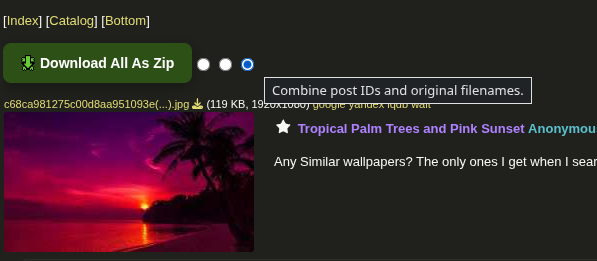
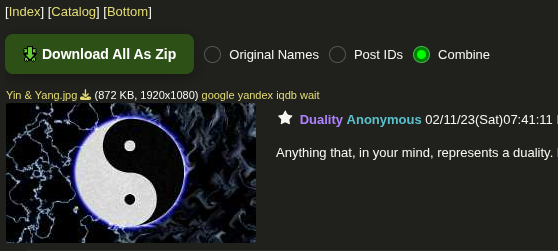
new preview img for buttons

diff --git a/README.md b/README.md
@@ -8,11 +8,11 @@ If the thread has multiple files with the same posted filename the files will be
 
 ### Adds buttons that lets you download all the content from a thread in a zip file.
 
-<img src="preview/preview.png" width="597" height="261">
+<img src="preview/preview.png">
 
 ### Also on each post there will be a button to start downloading from that post down.
 
-<img src="preview/preview2.png" width="393" height="127">
+<img src="preview/preview2.png">
 
 ### [<img src="preview/4chan-dl.ico" width="16" height="16"> Click here to install <img src="preview/4chan-dl.ico" width="16" height="16">](https://github.com/0000xFFFF/4chan-dl/raw/refs/heads/master/4chan-dl.user.js)
 
